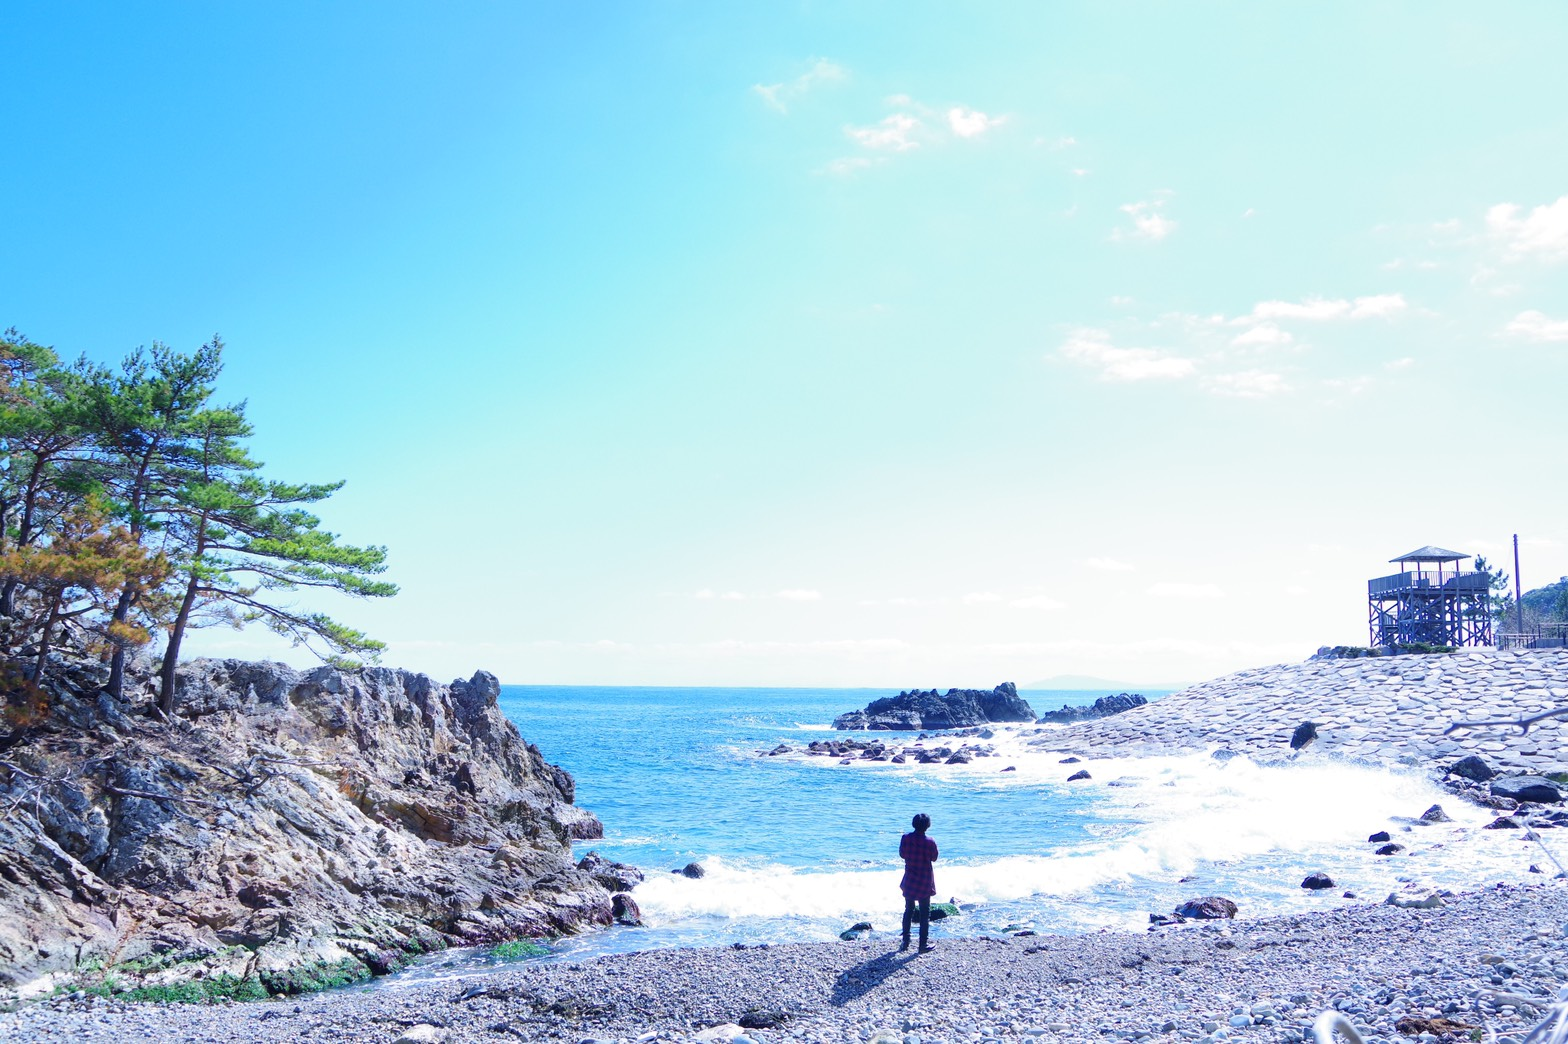
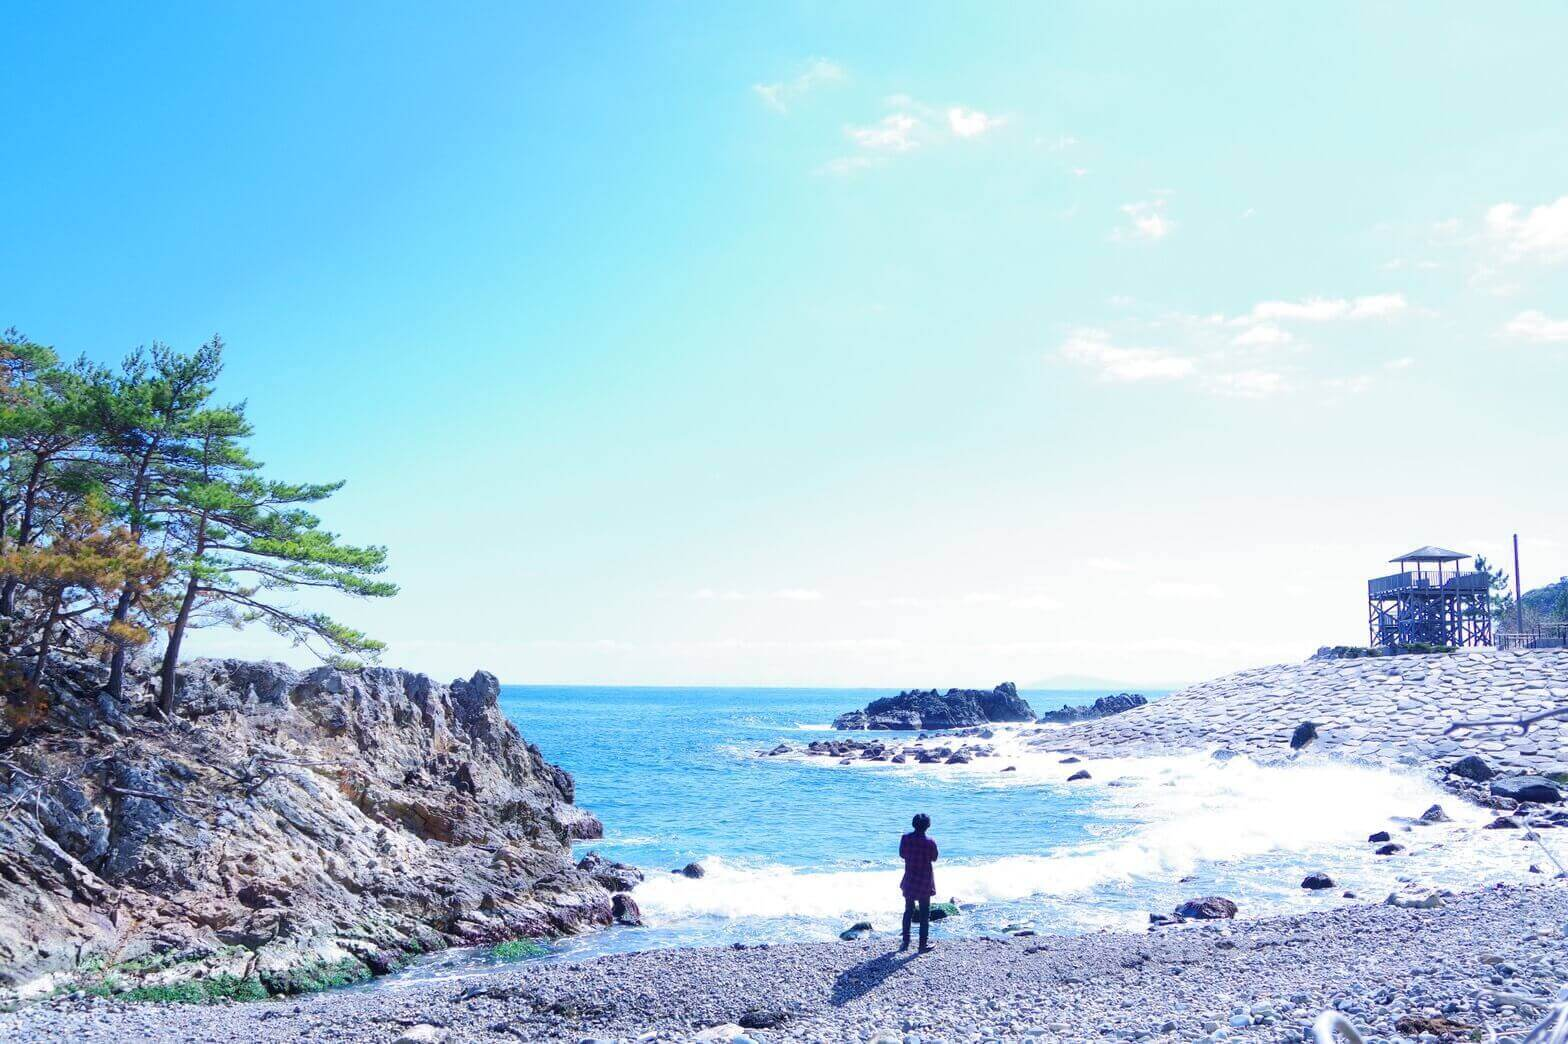
ニューモフィズムデザインを追加・画像を圧縮

diff --git a/components/contactForm.vue b/components/contactForm.vue
@@ -38,16 +38,16 @@ export default {}
       margin-bottom: 16px;
       padding: 0.5px;
       border-radius: 25px;
-      box-shadow: inset 5px 5px 5px rgb(200, 200, 200),
-        inset -6px -6px 10px rgb(230, 230, 230);
+      box-shadow: inset 6px 6px 5px rgb(180, 180, 180),
+        inset -6px -6px 10px rgb(245, 245, 245);
       width: 100%;
       box-sizing: border-box;
       transition: all 0.2s ease-in-out;
       appearance: none;
       -webkit-appearance: none;
       &:hover {
-        box-shadow: -8px -8px 20px rgb(240, 240, 240),
-          8px 8px 15px rgb(190, 190, 190);
+        box-shadow: -8px -8px 15px rgb(245, 245, 245),
+          8px 8px 15px rgb(180, 180, 180);
       }
       input {
         width: 500px;
@@ -55,9 +55,6 @@ export default {}
         border: none;
         &:focus {
           outline: none;
-        }
-        &:valid {
-          background-color: #ddd;
         }
         @media (max-width: (768px)) {
           width: 300px;
@@ -87,20 +84,20 @@ export default {}
       background: #ddd;
       border-radius: 25px;
       font-weight: bold;
-      box-shadow: -8px -8px 20px rgb(230, 230, 230),
-        8px 8px 15px rgb(200, 200, 200);
+      box-shadow: -8px -8px 15px rgb(245, 245, 245),
+        8px 8px 15px rgb(180, 180, 180);
       transition: all 0.2s ease-in-out;
       cursor: pointer;
       font-weight: 600;
       &:hover {
-        box-shadow: inset -5px -5px 20px rgb(240, 240, 240),
-          inset 5px 5px 15px rgb(190, 190, 190);
-          outline: none;
+        box-shadow: -8px -8px 15px rgba(245, 245, 245,0.6),
+          8px 8px 15px rgba(180, 180, 180,0.6);
+        outline: none;
       }
       &:active {
-        box-shadow: inset 5px 5px 5px rgb(200, 200, 200),
-          inset -6px -6px 10px rgb(230, 230, 230);
-          outline: none;
+        box-shadow: inset 6px 6px 5px rgb(180, 180, 180),
+          inset -6px -6px 10px rgb(245, 245, 245);
+        outline: none;
       }
     }
   }

diff --git a/components/HeaderNav.vue b/components/HeaderNav.vue
@@ -92,12 +92,9 @@ export default {
         }
         &:nth-child(2) {
           top: 14px;
-          width: 80%;
-          margin-left: 6px;
         }
         &:last-child {
           bottom: 0;
-          width: 80%;
         }
       }
       &.is-active {
@@ -124,7 +121,7 @@ export default {
     display: block;
     @media (max-width: (768px)) {
       display: none;
-      background-color: rgba(238, 238, 238, 0.95);
+      background-color: rgba(238, 238, 238, 0.98);
       z-index: 30;
       padding: 2rem 1rem;
       width: 100%;
@@ -142,9 +139,28 @@ export default {
         z-index: -1;
       }
       li {
-        padding-right: 16px;
+        padding: 12px;
+        margin-right: 16px;
+        border-radius: 20px;
+        box-shadow: -8px -8px 15px rgb(245, 245, 245),
+          8px 8px 15px rgb(180, 180, 180);
+        transition: all 0.2s ease-in-out;
+        cursor: pointer;
+        font-weight: 600;
+        &:hover {
+          box-shadow: -8px -8px 15px rgba(245, 245, 245, 0.6),
+            8px 8px 15px rgba(180, 180, 180, 0.6);
+          outline: none;
+        }
+        &:active {
+          box-shadow: inset 6px 6px 5px rgb(180, 180, 180),
+            inset -6px -6px 10px rgb(245, 245, 245);
+          outline: none;
+        }
         @media (max-width: (768px)) {
           padding-top: 16px;
+          margin: 16px;
+          text-align: center;
         }
         a {
           text-decoration: none;
@@ -177,7 +193,7 @@ export default {
 
   .nav-enter-active,
   .nav-leave-active {
-    transition: opacity 1s ease;
+    transition: opacity 0.65s ease;
   }
 }
 </style>

diff --git a/components/profile.vue b/components/profile.vue
@@ -49,7 +49,8 @@ export default {
   top: 0;
   bottom: 0;
   margin: 0 auto;
-  padding: 36px;
+  padding: 8px;
+  margin-top: 16px;
   .about-headline {
     text-align: left;
     display: flex;
@@ -59,8 +60,12 @@ export default {
     .content {
       padding: 8px;
       p {
+        padding: 16px;
         line-height: 2;
         font-size: 12px;
+        border-radius: 25px;
+        box-shadow: inset 5px 5px 10px rgb(180, 180, 180),
+          inset -5px -5px 10px rgb(240, 240, 240);
       }
     }
   }
@@ -68,7 +73,25 @@ export default {
     text-decoration: none;
     color: black;
     p {
-      border: 1px solid black;
+      padding: 8px;
+      width: 200px;
+      background: #ddd;
+      border-radius: 25px;
+      font-weight: bold;
+      box-shadow: -10px -10px 15px rgb(245, 245, 245),
+        8px 8px 10px rgb(180, 180, 180);
+      transition: all 0.2s ease-in-out;
+      cursor: pointer;
+      font-weight: 600;
+      &:hover {
+        box-shadow: -8px -8px 15px rgba(245, 245, 245, 0.6),
+          8px 8px 15px rgba(180, 180, 180, 0.6);
+      }
+      &:active {
+        box-shadow: inset 5px 5px 5px rgb(180, 180, 180),
+          inset -6px -6px 10px rgb(245, 245, 245);
+        outline: none;
+      }
     }
   }
 }

diff --git a/components/post.vue b/components/post.vue
@@ -34,21 +34,21 @@
             </v-chip>
           </div>
         </div>
-        <h2>{{ post.fields.title }}</h2>
+        <h2 class="text-left">{{ post.fields.title }}</h2>
         <v-spacer />
         <v-btn
           v-if="post.sys.contentType.sys.id === 'about'"
           text
           :to="linkTo('about', post)"
-          class="d-flex justify-end pa-0"
-          >[<span class="primary--text">この記事を読む</span>]</v-btn
+          class=""
+          >READ MORE</v-btn
         >
         <v-btn
           v-else
-          text
+          outlined
           :to="linkTo('posts', post)"
-          class="d-flex justify-end pa-0"
-          >[<span class="primary--text">この記事を読む</span>]</v-btn
+          class="mt-3"
+          >READ MORE</v-btn
         >
       </v-card-text>
     </v-card>

diff --git a/components/snsLink.vue b/components/snsLink.vue
@@ -47,7 +47,26 @@ ul {
   align-items: center;
   list-style: none;
   li {
-    padding-right: 8px;
+    padding: 4px;
+    margin: 4px;
+    background: #ddd;
+    border-radius: 8px;
+    font-weight: bold;
+    box-shadow: -10px -10px 15px rgb(245, 245, 245),
+      8px 8px 10px rgb(180, 180, 180);
+    transition: all 0.2s ease-in-out;
+    cursor: pointer;
+    font-weight: 600;
+    &:hover {
+      box-shadow: inset -8px -8px 15px rgb(240, 240, 240),
+        inset 8px 8px 15px rgb(190, 190, 190);
+      outline: none;
+    }
+    &:active {
+      box-shadow: inset 5px 5px 5px rgb(200, 200, 200),
+        inset -6px -6px 10px rgb(230, 230, 230);
+      outline: none;
+    }
     a {
       text-decoration: none;
       svg {

diff --git a/layouts/top.vue b/layouts/top.vue
@@ -1,7 +1,7 @@
 <template>
   <v-app>
     <Header />
-    
+
     <main>
       <v-row class="main-wrapper">
         <nuxt class="main" />
@@ -27,15 +27,16 @@ export default {
 }
 </script>
 <style lang="scss" scoped>
-html {
-  font-family: BlinkMacSystemFont, 'Segoe UI', Roboto, 'Helvetica Neue', Arial,
-    sans-serif;
+* {
+  font-family: 'Lato', 'Noto Sans JP', 'ヒラギノ角ゴ ProN',
+    'Hiragino Kaku Gothic ProN', 'メイリオ', Meiryo, 'ＭＳ Ｐゴシック',
+    'MS PGothic', sans-serif;
 }
 body {
   margin: 0;
 }
 main {
-  background-color:#ddd;
+  background-color: #ddd;
 }
 .main-wrapper {
   margin: 0 auto;

diff --git a/components/category.vue b/components/category.vue
@@ -1,6 +1,6 @@
 <template>
   <div class="pa-3">
-    <v-card class="grey lighten-2">
+    <v-card flat class="grey lighten-3">
       <v-card-title>カテゴリ一覧</v-card-title>
       <div class="d-flex flex-wrap justify-start mb-3">
         <div v-for="(category, index) in categories" :key="index">
@@ -16,7 +16,7 @@
         </div>
       </div>
     </v-card>
-    <v-card class="grey lighten-2">
+    <v-card  flat class="grey lighten-3">
       <v-card-title>タグ一覧</v-card-title>
       <div class="d-flex flex-wrap justify-start mb-3">
         <div v-for="(tag, index) in tagList" :key="index" clss="d-flex">

diff --git a/pages/contact.vue b/pages/contact.vue
@@ -1,8 +1,7 @@
 <template>
   <div>
     <div class="headline">
-      <h2>お問い合わせ</h2>
-      <p>CONTACT</p>
+      <h2>CONTACT</h2>
     </div>
     <contact-form />
   </div>
@@ -21,13 +20,8 @@ export default {
 .headline {
   margin-top: 70px;
   h2 {
-    font-size: 32px;
-    width: 250px;
-    margin: 0 auto;
-    border-bottom: 1px solid black;
-    border-width: 1.5px;
-    border-radius: 6px;
-    padding-bottom: 8px;
+    color: rgb(160, 160, 160);
+    text-shadow: 1px 1px 1px rgb(245, 245, 245);
   }
 }
 </style>

diff --git a/layouts/default.vue b/layouts/default.vue
@@ -20,15 +20,16 @@ export default {
 }
 </script>
 <style lang="scss" scoped>
-html {
-  font-family: BlinkMacSystemFont, 'Segoe UI', Roboto, 'Helvetica Neue', Arial,
-    sans-serif;
+* {
+  font-family: 'Lato', 'Noto Sans JP', 'ヒラギノ角ゴ ProN',
+    'Hiragino Kaku Gothic ProN', 'メイリオ', Meiryo, 'ＭＳ Ｐゴシック',
+    'MS PGothic', sans-serif;
 }
 body {
   margin: 0;
 }
 main {
-  background-color:#ddd;
+  background-color: #ddd;
 }
 .main-wrapper {
   min-height: 600px;

diff --git a/pages/index.vue b/pages/index.vue
@@ -5,7 +5,7 @@
         <carousel />
       </div>
     </section>
-    <profile v-show="$vuetify.breakpoint.xs"/>
+    <profile v-show="$vuetify.breakpoint.xs" />
     <section class="latest-posts">
       <headline :headline="headline" />
       <v-row>
@@ -59,7 +59,6 @@ export default {
 
 <style lang="scss">
 * {
-  font-family: sans-serif;
   margin: 0;
 }
 .jumbtron {
@@ -74,6 +73,6 @@ export default {
 }
 
 section.latest-posts {
-  padding:16px;
+  padding: 16px;
 }
 </style>

diff --git a/nuxt.config.js b/nuxt.config.js
@@ -33,10 +33,15 @@ export default {
       }
     ],
     link: [{
-      rel: 'icon',
-      type: 'image/x-icon',
-      href: '/favicon.ico'
-    }]
+        rel: 'icon',
+        type: 'image/x-icon',
+        href: '/favicon.ico'
+      },
+      {
+        rel: 'stylesheet',
+        href: 'https://fonts.googleapis.com/css?family=Lato:400,700|Noto+Sans+JP:400,700'
+      }
+    ]
   },
   /*
    ** Customize the progress-bar color

diff --git a/components/Header.vue b/components/Header.vue
@@ -23,6 +23,7 @@ export default {
 
 <style lang="scss" scoped>
 .header-inner {
+  background-color:#ddd;
   display: flex;
   height: 100px;
   justify-content: space-between;
@@ -31,7 +32,6 @@ export default {
     height: 65px;
     position: fixed;
     width: 100%;
-    background-color: #fff;
     z-index: 99;
   }
   a {
